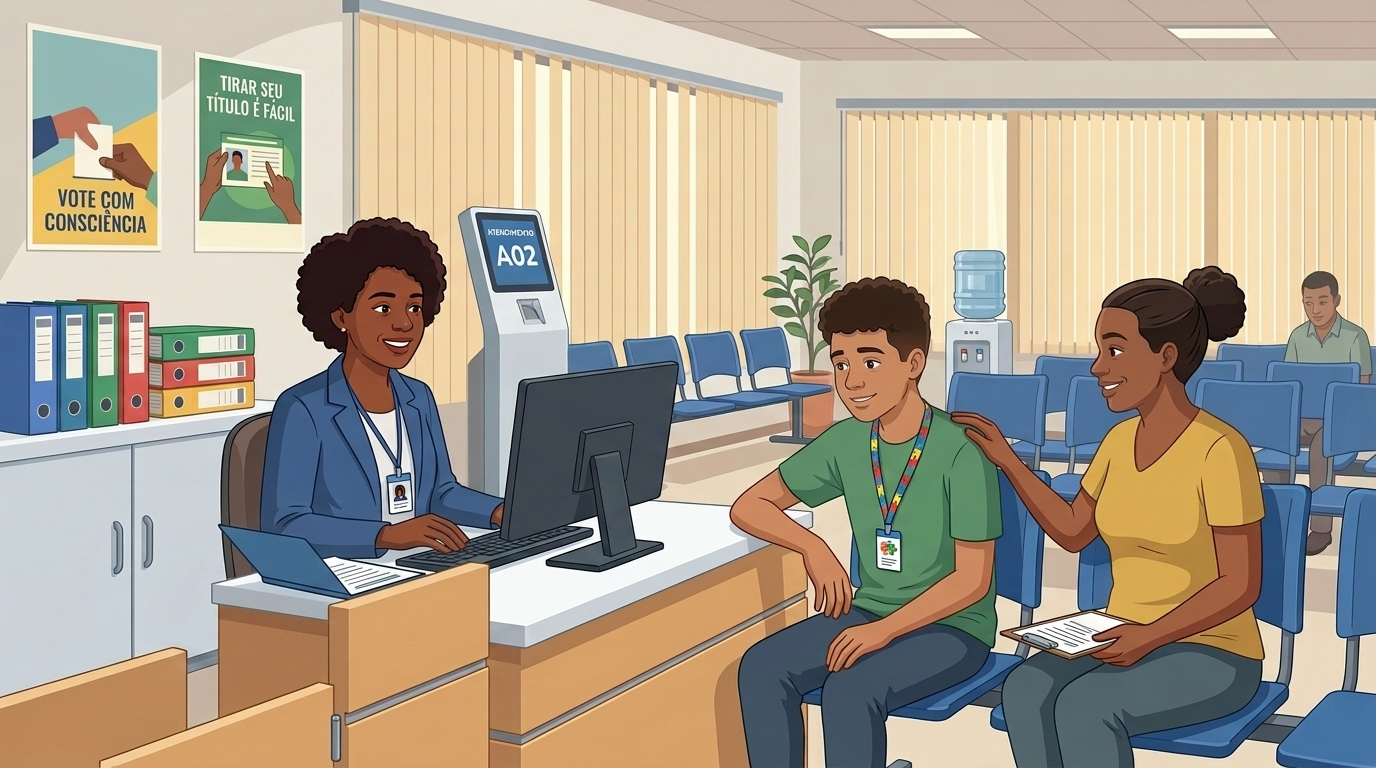
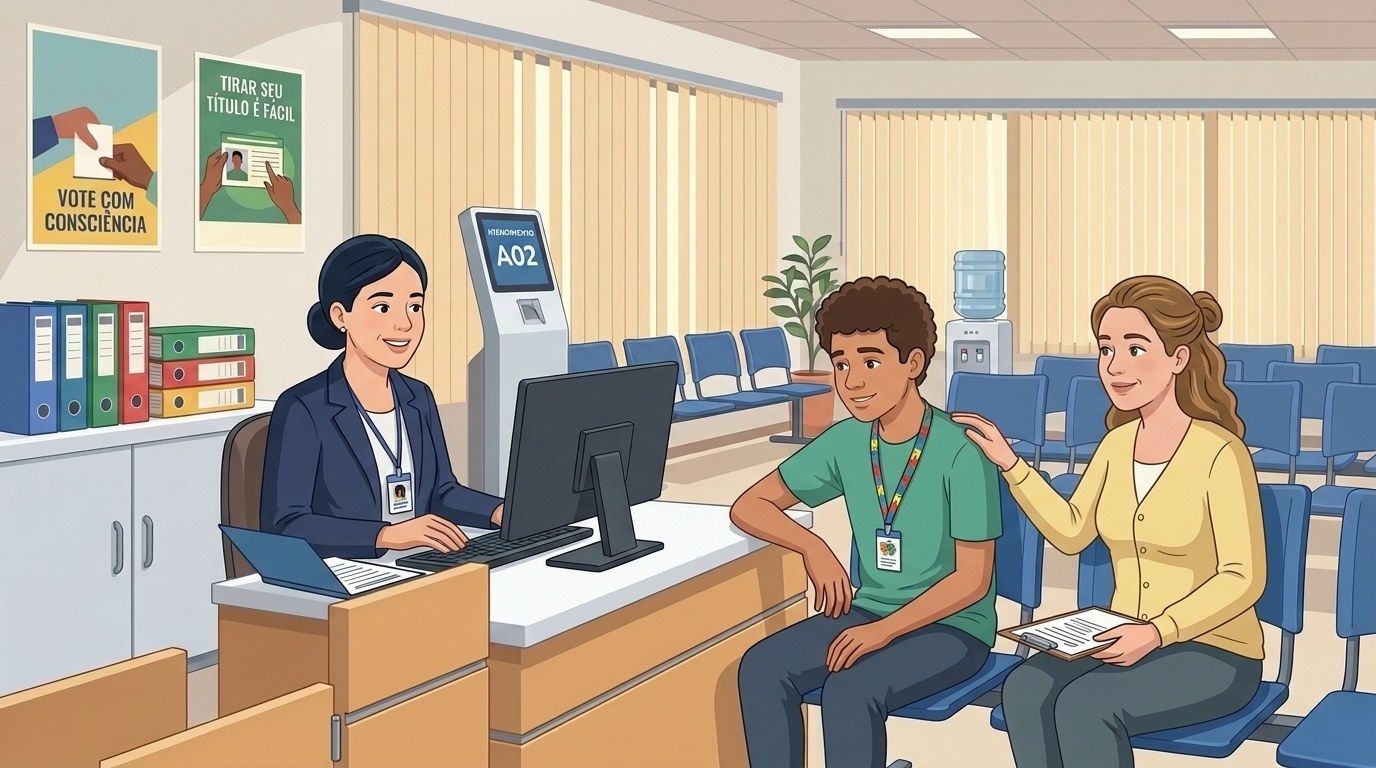
feat: diversidade étnica brasileira nas ilustrações, download txt, salvamento de rascunho, CHANGELOG e LICENSE (v0.1.0)

Changed region(s): [[0.5625, 0.3438, 0.9688, 0.875], [0.1875, 0.2812, 0.375, 0.75], [0.9375, 0.3438, 1.0, 0.5]]

diff --git a/index.html b/index.html
@@ -1689,7 +1689,7 @@
       <!-- Feature Card: Atendimento no Cartório e Certidão pelo Artigo 15 -->
       <div class="feature-media-card">
         <div class="feature-media-img-box">
-          <img src="assets/atendimento-cartorio.png" alt="Ilustração de atendimento humanizado em cartório eleitoral brasileiro, com servidora pública atendendo jovem autista e sua mãe em balcão com computadores, pastas AZ, painel de senhas e cadeiras longarinas azuis" class="feature-media-img" loading="lazy" />
+          <img src="assets/atendimento-cartorio.png" alt="Ilustração em arte vetorial 2D de atendimento acolhedor no Cartório Eleitoral brasileiro, com servidora pública atenciosa em blazer azul orientando jovem eleitor autista com cordão de identificação e sua mãe, em balcão acessível com totem de senhas e painel de informações" class="feature-media-img" loading="lazy" />
         </div>
         <div class="feature-media-content">
           <span class="section-eyebrow">Acolhimento no Cartório Eleitoral</span>
@@ -1762,7 +1762,7 @@
           </ul>
         </div>
         <div class="feature-media-img-box">
-          <img src="assets/protecao-beneficios.png" alt="Ilustração em arte vetorial 2D de jovem adulto autista e sua mãe reunidos em casa à mesa com café, carteira de identidade RG e celular confirmando a tranquilidade e segurança de benefícios sociais como BPC/LOAS e quitação eleitoral" class="feature-media-img" loading="lazy" />
+          <img src="assets/protecao-beneficios.png" alt="Ilustração em arte vetorial 2D de mãe e jovem adulto autista reunidos em casa à mesa com café, carteira de identidade RG e smartphone confirmando a tranquilidade e segurança de benefícios sociais como BPC/LOAS e quitação eleitoral" class="feature-media-img" loading="lazy" />
         </div>
       </div>
     </section>
@@ -1842,6 +1842,9 @@
       <div class="doc-actions no-print">
         <button type="button" class="btn-primary" id="btn-print">
           <span aria-hidden="true">🖨</span> Imprimir / Salvar em PDF
+        </button>
+        <button type="button" class="btn-secondary" id="btn-download-txt">
+          <span aria-hidden="true">💾</span> Baixar Arquivo (.txt)
         </button>
         <button type="button" class="btn-secondary" id="btn-copy">
           <span aria-hidden="true">📋</span> Copiar texto
@@ -1952,7 +1955,7 @@
   <footer class="footer no-print" role="contentinfo">
     <div class="wrap footer-inner">
       <div>
-        <strong>Guia TEA & Voto</strong> · Versão 0.0.1
+        <strong>Guia TEA & Voto</strong> · Versão 0.1.0
         <br />
         <small>Iniciativa cidadã e independente de apoio à inclusão. Este portal não possui vínculo oficial com o Tribunal Superior Eleitoral (TSE) ou Tribunais Regionais Eleitorais (TREs).</small>
       </div>
@@ -2227,17 +2230,93 @@ Assinatura do(a) requerente ou representante legal`;
         $('doc-output').textContent = textoFinal;
       }
 
+      // Máscara formatadora para Título de Eleitor (0000 0000 0000)
+      const inputTitulo = $('form-titulo');
+      if (inputTitulo) {
+        inputTitulo.addEventListener('input', (e) => {
+          let val = e.target.value.replace(/\D/g, '').slice(0, 12);
+          let formatted = '';
+          for (let i = 0; i < val.length; i++) {
+            if (i > 0 && i % 4 === 0) formatted += ' ';
+            formatted += val[i];
+          }
+          e.target.value = formatted;
+        });
+      }
+
+      // Persistência em tempo real no localStorage (Salvamento de Rascunho)
+      function saveFormDraft() {
+        const draft = {};
+        formFields.forEach(id => {
+          const el = $(id);
+          if (el) draft[id] = el.value;
+        });
+        localStorage.setItem('tea_form_draft', JSON.stringify(draft));
+      }
+
+      function loadFormDraft() {
+        try {
+          const raw = localStorage.getItem('tea_form_draft');
+          if (raw) {
+            const draft = JSON.parse(raw);
+            let hasContent = false;
+            formFields.forEach(id => {
+              const el = $(id);
+              if (el && draft[id] !== undefined && draft[id] !== '') {
+                el.value = draft[id];
+                if (id !== 'form-tipo' && id !== 'form-data') hasContent = true;
+              }
+            });
+            if (hasContent) {
+              const feedback = $('copy-feedback');
+              if (feedback) {
+                feedback.textContent = 'ℹ Rascunho anterior recuperado automaticamente.';
+                setTimeout(() => { if (feedback.textContent && feedback.textContent.includes('recuperado')) feedback.textContent = ''; }, 3500);
+              }
+            }
+          }
+        } catch (e) {
+          console.error('Erro ao recuperar rascunho:', e);
+        }
+      }
+
       formFields.forEach(fieldId => {
         const el = $(fieldId);
         if (el) {
-          el.addEventListener('input', updateDocumentPreview);
-          el.addEventListener('change', updateDocumentPreview);
+          el.addEventListener('input', () => {
+            updateDocumentPreview();
+            saveFormDraft();
+          });
+          el.addEventListener('change', () => {
+            updateDocumentPreview();
+            saveFormDraft();
+          });
         }
       });
 
       // Ações do Gerador
       $('btn-print').addEventListener('click', () => {
         window.print();
+      });
+
+      $('btn-download-txt').addEventListener('click', () => {
+        const text = $('doc-output').textContent;
+        const blob = new Blob([text], { type: 'text/plain;charset=utf-8' });
+        const url = URL.createObjectURL(blob);
+        const a = document.createElement('a');
+        a.href = url;
+        const tipo = $('form-tipo').value || 'requerimento';
+        const rawNome = $('form-nome').value.trim() || 'eleitor';
+        const nomeLimpo = rawNome.normalize('NFD').replace(/[\u0300-\u036f]/g, '').toLowerCase().replace(/[^a-z0-9]/g, '-').replace(/-+/g, '-');
+        a.download = `requerimento-eleitoral-${tipo}-${nomeLimpo}.txt`;
+        document.body.appendChild(a);
+        a.click();
+        document.body.removeChild(a);
+        URL.revokeObjectURL(url);
+
+        const feedback = $('copy-feedback');
+        feedback.textContent = '✓ Arquivo .txt baixado com sucesso!';
+        setTimeout(() => feedback.textContent = '', 4000);
       });
 
       $('btn-copy').addEventListener('click', async () => {
@@ -2261,11 +2340,16 @@ Assinatura do(a) requerente ou representante legal`;
             }
           });
           $('form-data').value = today;
+          localStorage.removeItem('tea_form_draft');
           updateDocumentPreview();
+          const feedback = $('copy-feedback');
+          feedback.textContent = 'Campos limpos com sucesso.';
+          setTimeout(() => feedback.textContent = '', 3000);
         }
       });
 
-      // Inicialização da prévia
+      // Inicialização: carregar rascunho salvo e atualizar prévia
+      loadFormDraft();
       updateDocumentPreview();
 
       /* ============================================================

diff --git a/README.md b/README.md
@@ -1,4 +1,4 @@
-# Guia TEA & Voto — Direitos Eleitorais e Acessibilidade (v0.0.1)
+# Guia TEA & Voto — Direitos Eleitorais e Acessibilidade (v0.1.0)
 
 > **Iniciativa Cidadã e Independente:** Este portal é um guia informativo da sociedade civil destinado a pessoas autistas, suas famílias e representantes legais. **Não é uma página governamental oficial** do Tribunal Superior Eleitoral (TSE) ou dos Tribunais Regionais Eleitorais (TREs). Para serviços e certidões oficiais, consulte sempre o portal do TSE ([tse.jus.br](https://www.tse.jus.br)).
 
@@ -11,14 +11,17 @@ O projeto **Guia TEA & Voto** foi desenvolvido para desmistificar regras eleitor
 ### Principais Funcionalidades:
 1. **Assistente de Triagem Orientada (Wizard):** Diagnóstico rápido em 3 etapas que orienta o cidadão de acordo com sua situação concreta (desejo de votar com acessibilidade, dificuldade excessiva para comparecer, registro de deficiência ou pendências cadastrais).
 2. **Gerador Dinâmico de Requerimentos Jurídicos:** Editor em tempo real com pré-visualização instantânea para elaboração de petições fundamentadas no **Art. 15 da Resolução TSE nº 23.659/2021** (isenção de sanções ou certidão por prazo indeterminado), acessibilidade ou regularização.
-3. **Formatação para Impressão (PDF/A4):** Estilos dedicados (`@media print`) que eliminam menus e elementos interativos, gerando um documento limpo e pronto para entrega ao Cartório Eleitoral.
+   - **Salvamento Automático de Rascunho (`localStorage`):** Os dados digitados são preservados mesmo se a página for fechada ou recarregada.
+   - **Máscara Automática de Título de Eleitor:** Formatação inteligente em blocos (`0000 0000 0000`).
+3. **Download Direto (.txt) e Impressão (PDF/A4):** Opção de baixar o requerimento preenchido em arquivo de texto plano formatado e estilos dedicados (`@media print`) para impressão direta e limpa.
 4. **Cópia Instantânea:** Botão para cópia do texto com feedback visual (`toast`).
 5. **Recursos de Acessibilidade (WCAG 2.1 AA/AAA):**
    - Alternador de Alto Contraste para baixa visão ou sensibilidade à luz.
    - Ajuste dinâmico de tamanho de tipografia (`A+`, `A`, `A-`).
    - Busca em tempo real com realce de tópicos e perguntas frequentes.
    - Navegação por teclado completa (`:focus-visible`).
-6. **Esclarecimento sobre Benefícios e Documentos:** Orientações sobre a independência do CPF (Receita Federal) e do BPC/LOAS (INSS/MDS) em relação a faltas eleitorais.
+6. **Representatividade e Diversidade Étnica:** Direção de arte editorial 2D que reflete o mosaico plural da população brasileira (pessoas pardas, negras, brancas e com diferentes traços regionais).
+7. **Esclarecimento sobre Benefícios e Documentos:** Orientações sobre a independência do CPF (Receita Federal) e do BPC/LOAS (INSS/MDS) em relação a faltas eleitorais.
 
 ---
 
@@ -30,11 +33,13 @@ autistas-app/
 ├── assets/
 │   ├── hero-illustration.png           # Principal (Hero): Jovem autista com olhar de esperança e cabine com urna eletrônica
 │   ├── acessibilidade-inclusao.png     # Seção 1: Jovem mulher autista com fones abafadores e pai em escola acessível (2D editorial)
-│   ├── orientacao-cidadania.png        # Seção 2: Apoio familiar e organização de documentos e triagem (2D editorial oficial)
-│   ├── atendimento-cartorio.png        # Seção 3: Atendimento acolhedor de mãe e jovem no Cartório Eleitoral (2D editorial)
-│   ├── protecao-beneficios.png         # Seção 4: Jovem adulto autista e mãe em casa confirmando direitos e BPC (2D editorial)
-│   └── arquivo/                        # Acervo histórico com todas as 18 variações e versões de estudo preservadas
-├── package.json                 # Metadados do projeto (v0.0.1) e scripts de execução
+│   ├── orientacao-cidadania.png        # Seção 2: Apoio familiar e organização de documentos e triagem (2D editorial)
+│   ├── atendimento-cartorio.png        # Seção 3: Atendimento acolhedor de servidora pública e família no Cartório Eleitoral (2D editorial)
+│   ├── protecao-beneficios.png         # Seção 4: Mãe e jovem adulto autista confirmando segurança de benefícios e BPC (2D editorial)
+│   └── arquivo/                        # Acervo histórico com todas as 20 variações e versões de estudo preservadas
+├── CHANGELOG.md                 # Registro cronológico detalhado de lançamentos e versões
+├── LICENSE                      # Licença de código aberto MIT
+├── package.json                 # Metadados do projeto (v0.1.0) e scripts de execução
 ├── .gitignore                   # Filtro de arquivos do SO, IDEs e dependências
 ├── vercel.json                  # Configuração de segurança e deploy na Vercel
 ├── netlify.toml                 # Configuração de deploy no Netlify

diff --git a/CHANGELOG.md b/CHANGELOG.md
@@ -1,0 +1,42 @@
+# Changelog
+
+Todas as alterações notáveis neste projeto serão documentadas neste arquivo.
+
+O formato é baseado em [Keep a Changelog](https://keepachangelog.com/pt-BR/1.0.0/), e este projeto adere ao [Semantic Versioning](https://semver.org/lang/pt-BR/).
+
+---
+
+## [0.1.0] - 2026-10-20
+
+### Adicionado
+- **Download Direto em `.txt`**: Novo botão no gerador de requerimentos para baixar o documento preenchido com nomenclatura personalizada e sem necessidade de impressão.
+- **Salvamento Automático de Rascunho (`localStorage`)**: Persistência em tempo real dos campos do formulário para evitar perda de dados por recarregamento acidental do navegador.
+- **Máscara para Título de Eleitor**: Formatação automática em blocos de 4 dígitos (`0000 0000 0000`) ao digitar o número do título.
+- **Arquivo de Licença Oficial**: Criação do arquivo `LICENSE` formal sob a licença MIT.
+- **Preservação de Versões em Acervo**: Arquivamento das versões anteriores das artes em `assets/arquivo/atendimento-cartorio-afro.png` e `assets/arquivo/protecao-beneficios-afro.png`, totalizando 20 variações históricas salvas.
+
+### Aprimorado
+- **Diversidade Étnica e Pluralidade Visual Brasileira**:
+  - Nova ilustração para a Seção 3 (**Atendimento no Cartório**): servidora pública atenciosa e família com diversidade de traços e tons de pele do mosaico demográfico brasileiro, mantendo o acolhimento, crachás e totem de atendimento.
+  - Nova ilustração para a Seção 4 (**Proteção de Benefícios**): mãe e filho autista em ambiente acolhedor com nova composição étnica brasileira, confirmando a segurança do BPC/LOAS no smartphone com RG verde à mesa.
+  - Equilíbrio visual harmônico em todo o portal, retratando pessoas pardas, negras, brancas e com diferentes traços regionais brasileiros.
+- **Acessibilidade e Descrições `alt`**: Textos alternativos das imagens atualizados para leitores de tela com máxima precisão e clareza.
+
+---
+
+## [0.0.1] - 2026-10-19
+
+### Adicionado
+- **Lançamento do Portal Guia TEA & Voto**: Plataforma web de alta performance construída em HTML5, Vanilla CSS e JavaScript puro sem dependências pesadas de compilação.
+- **Assistente de Triagem Orientada (Wizard)**: Fluxo rápido em 3 etapas orientando eleitores autistas e famílias (votar com acessibilidade, isenção por impossibilidade/onerosidade, registro de deficiência ou regularização).
+- **Gerador Dinâmico de Requerimentos Jurídicos**: Editor em tempo real com pré-visualização instantânea fundamentado no **Artigo 15 da Resolução TSE nº 23.659/2021**, na **Lei Berenice Piana (12.764/2012)** e na **LBI (13.146/2015)**.
+- **Impressão Formatada em Folha A4**: Regras `@media print` personalizadas que removem menus, botões e cabeçalhos para gerar petição impressa limpa para o cartório.
+- **Cópia Rápida para Área de Transferência**: Botão com retorno dinâmico via toast.
+- **Recursos de Acessibilidade (WCAG 2.1)**:
+  - Alternador de Alto Contraste com persistência em `localStorage`.
+  - Controle de escala tipográfica dinâmica (`A+`, `A`, `A-`).
+  - Busca em tempo real com realce e atenuação visual.
+  - Navegação fluida por teclado com `:focus-visible`.
+- **Esclarecimentos sobre Benefícios Sociais**: Seções desmistificando mitos sobre cancelamento de CPF e BPC/LOAS decorrentes de faltas às urnas.
+- **Direção de Arte Editorial Vetorial 2D**: Criação do acervo de ilustrações acolhedoras para o Hero e seções temáticas.
+- **Configurações de Produção e Segurança**: Cabeçalhos de segurança configurados para Vercel (`vercel.json`) e Netlify (`netlify.toml`).
